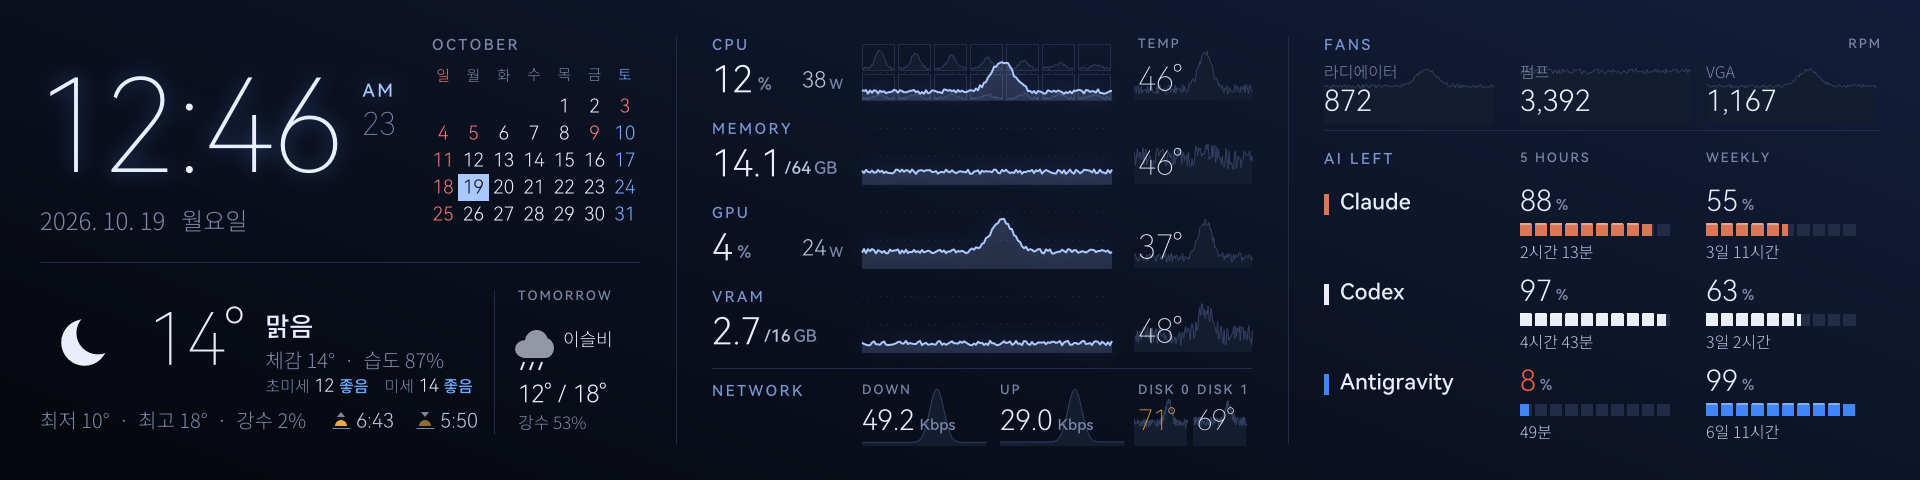
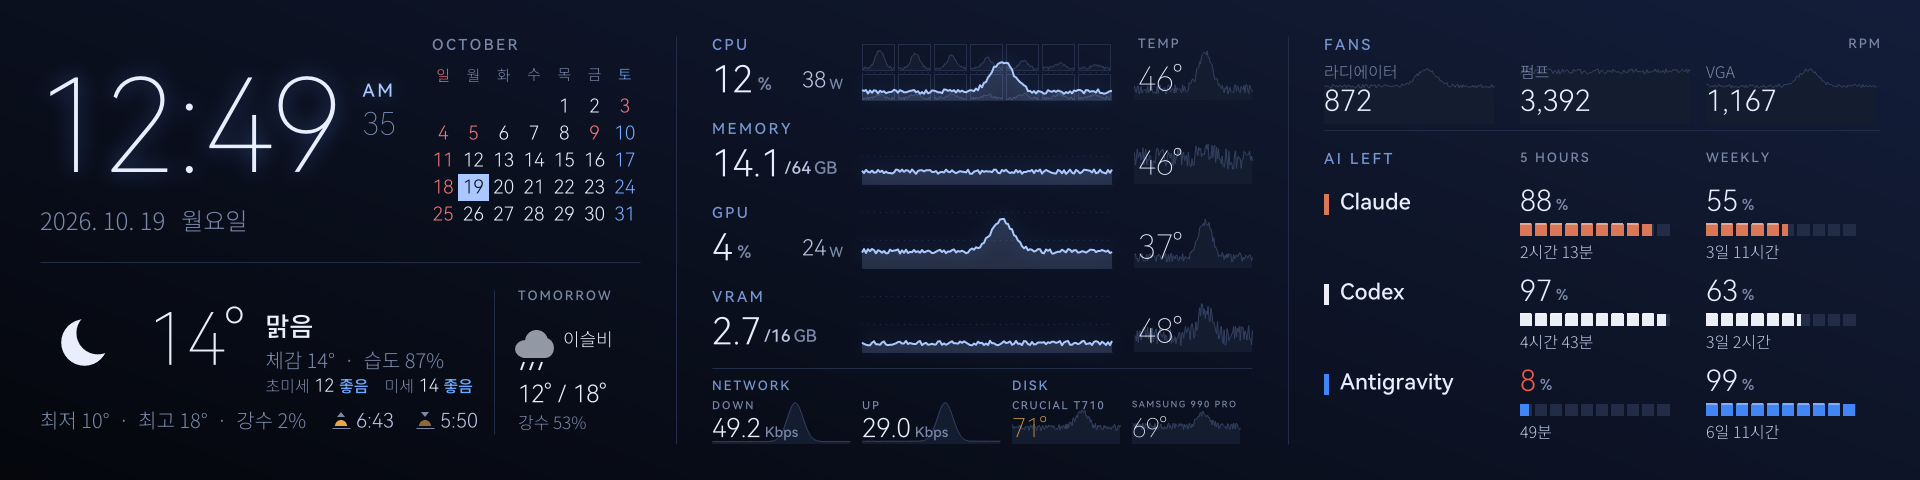
Bottom row: small headings over network speeds and disk temperatures
"Network" and "Disk" become small headings with the values under them, which frees room for
the disks to be named by their model ("Crucial T710", "Samsung 990 PRO", from the drive's
product id; `[disks] labels` overrides). Screenshots updated.

Changed region(s): [[0.375, 0.7812, 0.6562, 0.9375], [0.125, 0.1562, 0.2188, 0.375]]

diff --git a/rust/src/sensors/disks.rs b/rust/src/sensors/disks.rs
@@ -3,7 +3,8 @@
 //!
 //! Which drives: the ones holding the drive letters in the settings (`[disks] show`), or else
 //! the first two internal drives (USB and virtual disks are skipped). Each is labeled with its
-//! Windows disk number ("Disk 0"), as in Disk Management.
+//! model, shortened ("Samsung SSD 990 PRO 1TB" -> "Samsung 990 PRO", "CT2000T710SSD8" -> "Crucial T710"), or the
+//! name in `[disks] labels`, or "Disk N" (the Windows disk number) when the model is unknown.
 
 use std::collections::BTreeMap;
 
@@ -23,7 +24,7 @@ use crate::config;
 
 pub const MAX: usize = 2;
 
-/// A drive to watch: its physical disk number and label ("Disk 0").
+/// A drive to watch: its physical disk number and label ("990 PRO").
 pub struct Disk {
     number: u32,
     pub label: String,
@@ -78,6 +79,74 @@ fn internal(number: u32) -> bool {
     d.is_some_and(|d| d.BusType != BusTypeUsb && d.BusType != BusTypeFileBackedVirtual && !d.RemovableMedia)
 }
 
+/// The drive's product id ("Samsung SSD 990 PRO 1TB").
+fn model(number: u32) -> Option<String> {
+    let h = open(&format!(r"\\.\PhysicalDrive{number}"))?;
+    let q = STORAGE_PROPERTY_QUERY { PropertyId: StorageDeviceProperty, QueryType: PropertyStandardQuery, ..Default::default() };
+    let mut buf = vec![0u8; 1024]; // the descriptor plus its strings
+    let mut got = 0u32;
+    let ok = unsafe {
+        DeviceIoControl(
+            h,
+            IOCTL_STORAGE_QUERY_PROPERTY,
+            Some(&q as *const _ as *const _),
+            std::mem::size_of::<STORAGE_PROPERTY_QUERY>() as u32,
+            Some(buf.as_mut_ptr().cast()),
+            buf.len() as u32,
+            Some(&mut got),
+            None,
+        )
+        .is_ok()
+    };
+    unsafe {
+        let _ = CloseHandle(h);
+    }
+    if !ok || (got as usize) < std::mem::size_of::<STORAGE_DEVICE_DESCRIPTOR>() {
+        return None;
+    }
+    let d: STORAGE_DEVICE_DESCRIPTOR = unsafe { std::ptr::read_unaligned(buf.as_ptr().cast()) };
+    let at = d.ProductIdOffset as usize;
+    if at == 0 || at >= got as usize {
+        return None;
+    }
+    let end = buf[at..got as usize].iter().position(|&b| b == 0).map_or(got as usize, |n| at + n);
+    Some(String::from_utf8_lossy(&buf[at..end]).trim().to_string())
+}
+
+/// A readable name from a product id: vendor and model, without "SSD", the capacity or a
+/// part-number wrapper ("Samsung SSD 990 PRO 1TB" -> "Samsung 990 PRO", "CT2000T710SSD8" ->
+/// "Crucial T710").
+fn short_model(id: &str) -> String {
+    let capacity = |t: &str| {
+        let l = t.to_ascii_lowercase();
+        let digits = l.trim_end_matches("gb").trim_end_matches("tb").trim_end_matches('g').trim_end_matches('t');
+        digits != l && !digits.is_empty() && digits.chars().all(|c| c.is_ascii_digit() || c == '.')
+    };
+    let words: Vec<String> = id
+        .split_whitespace()
+        .filter(|w| !w.eq_ignore_ascii_case("ssd") && !capacity(w))
+        .map(|w| {
+            // Crucial part numbers: CT2000T710SSD8 -> Crucial T710
+            let up = w.to_ascii_uppercase();
+            match (up.strip_prefix("CT"), up.find("SSD")) {
+                (Some(rest), Some(i)) if i > 2 => format!("Crucial {}", rest[..i - 2].trim_start_matches(|c: char| c.is_ascii_digit())),
+                _ => w.to_string(),
+            }
+        })
+        .collect();
+    words.join(" ")
+}
+
+#[cfg(test)]
+mod tests {
+    #[test]
+    fn short_models() {
+        assert_eq!(super::short_model("Samsung SSD 990 PRO 1TB"), "Samsung 990 PRO");
+        assert_eq!(super::short_model("CT2000T710SSD8"), "Crucial T710");
+        assert_eq!(super::short_model("WD_BLACK SN850X 2000GB"), "WD_BLACK SN850X");
+    }
+}
+
 /// The drives to show (see the module comment).
 pub fn pick() -> Vec<Disk> {
     let map = drives();
@@ -85,7 +154,9 @@ pub fn pick() -> Vec<Disk> {
     let mut out: Vec<Disk> = Vec::new();
     let mut add = |number: u32| {
         if out.len() < MAX && !out.iter().any(|d| d.number == number) {
-            out.push(Disk { number, label: format!("Disk {number}") });
+            let custom = config::get().disks.labels.get(out.len()).filter(|l| !l.trim().is_empty()).cloned();
+            let label = custom.or_else(|| model(number).map(|m| short_model(&m))).filter(|l| !l.is_empty()).unwrap_or_else(|| format!("Disk {number}"));
+            out.push(Disk { number, label });
         }
     };
     if wanted.is_empty() {

diff --git a/rust/src/ui/hardware.rs b/rust/src/ui/hardware.rs
@@ -155,37 +155,41 @@ pub(super) fn draw_hardware(cv: &mut Canvas, st: &State, x: f32, right: f32) {
         }
     }
 
+    // bottom row: small headings, then network speeds and disk temperatures under them
     let y = TOP + 4.0 * 84.0 + 6.0;
     cv.line(&[(x, y - 10.0), (right, y - 10.0)], 1.0, RULE);
-    cv.caps(x, y + 4.0, "Network", 16.0, None, 2.5, false);
-    // with disk temperatures in the temperature column, the network speeds sit closer together
-    let disks = !hw.disks.is_empty();
-    let (step, graph_w, size) = if disks { (138.0, 124.0, 30.0) } else { (200.0, 180.0, 32.0) };
+    let (top, h) = (y + 18.0, 48.0); // graphs under the headings
+    let (f_val, f_unit) = (num(28.0, Face::Num), num(15.0, Face::NumSemi));
+    cv.caps(x, y, "Network", 14.0, None, 2.0, false);
     for (j, (label, key, rate)) in [("Down", "net_down", hw.net_down), ("Up", "net_up", hw.net_up)].into_iter().enumerate() {
-        let nx = gx + j as f32 * step;
-        bg_graph(cv, nx, y + 2.0, graph_w, 66.0, &st.hist[key], 125_000.0, None); // floor 1 Mbps
-        cv.caps(nx, y + 4.0, label, 14.0, Some(MUTED), 2.0, false);
-        let f = num(size, Face::Num);
+        let nx = x + j as f32 * 150.0;
+        bg_graph(cv, nx, top, 138.0, h, &st.hist[key], 125_000.0, None); // floor 1 Mbps
+        cv.caps(nx, y + 21.0, label, 12.0, Some(MUTED), 2.0, false);
         match rate {
-            None => cv.text(nx, y + 26.0, "--", f, FAINT),
+            None => cv.text(nx, y + 35.0, "--", f_val, FAINT),
             Some(rate) => {
                 let (val, unit) = fmt_rate(rate);
-                cv.text(nx, y + 26.0, &val, f, INK);
-                cv.text(nx + cv.text_len(&val, f) + 5.0, y + 38.0, unit, num(16.0, Face::NumSemi), MUTED);
+                cv.text(nx, y + 35.0, &val, f_val, INK);
+                cv.text(nx + cv.text_len(&val, f_val) + 4.0, y + 46.0, unit, f_unit, MUTED);
             }
         }
     }
-    // disk temperatures, in line with the temperature column above
-    let tx = gx + GRAPH_W + 26.0;
-    let cw = (right - tx + 4.0) / crate::sensors::disks::MAX as f32;
+    if hw.disks.is_empty() {
+        return;
+    }
+    let dx0 = x + 300.0;
+    let cw = (right - dx0) / crate::sensors::disks::MAX as f32;
+    cv.caps(dx0, y, "Disk", 14.0, None, 2.0, false);
     for (i, (label, temp)) in hw.disks.iter().enumerate() {
-        let dx = tx + i as f32 * cw;
-        bg_graph(cv, dx - 4.0, y + 2.0, cw - 6.0, 66.0, &st.hist[["disk0", "disk1"][i.min(1)]], 0.0, Some(10.0));
-        cv.caps(dx, y + 4.0, label, 14.0, Some(MUTED), 2.0, false);
-        let f = num(30.0, Face::NumLight);
+        let dx = dx0 + i as f32 * cw;
+        bg_graph(cv, dx, top, cw - 12.0, h, &st.hist[["disk0", "disk1"][i.min(1)]], 0.0, Some(10.0));
+        // model names vary in length: shrink the name to its cell
+        let size = [12.0, 11.0, 10.0, 9.0].into_iter().find(|&z| cv.caps_len(label, z, 1.5) <= cw - 14.0).unwrap_or(9.0);
+        cv.caps(dx, y + 21.0, label, size, Some(MUTED), 1.5, false);
+        let f = num(28.0, Face::NumLight);
         match temp {
-            None => cv.text(dx, y + 26.0, "--°", f, FAINT),
-            Some(t) => cv.text(dx, y + 26.0, &format!("{:.0}°", deg(*t)), f, temp_color(*t)),
+            None => cv.text(dx, y + 35.0, "--°", f, FAINT),
+            Some(t) => cv.text(dx, y + 35.0, &format!("{:.0}°", deg(*t)), f, temp_color(*t)),
         }
     }
 }

diff --git a/rust/src/config.rs b/rust/src/config.rs
@@ -65,6 +65,8 @@ pub struct Ai {
 pub struct Disks {
     /// drive letters of up to two drives, e.g. ["C", "D"]; empty = the first two internal drives
     pub show: Vec<String>,
+    /// names to show for them; empty = the drive model, shortened
+    pub labels: Vec<String>,
 }
 
 #[derive(Clone, Debug, Deserialize, Serialize)]
@@ -221,6 +223,8 @@ labels = [{labels}]
 # SSD temperatures next to the network speeds: drive letters of up to two drives,
 # e.g. ["C", "D"]; empty = the first two internal drives
 show = [{disks}]
+# Names for them, e.g. ["System", "Games"]; empty = the drive model ("990 PRO")
+labels = [{disk_labels}]
 "#,
         lang = c.language,
         clock = c.clock,
@@ -237,6 +241,7 @@ show = [{disks}]
         agy = c.ai.antigravity,
         labels = c.fans.labels.iter().map(|l| format!("{l:?}")).collect::<Vec<_>>().join(", "),
         disks = c.disks.show.iter().map(|l| format!("{l:?}")).collect::<Vec<_>>().join(", "),
+        disk_labels = c.disks.labels.iter().map(|l| format!("{l:?}")).collect::<Vec<_>>().join(", "),
     )
 }
 

diff --git a/rust/src/ui/canvas.rs b/rust/src/ui/canvas.rs
@@ -322,6 +322,17 @@ impl Canvas {
     }
 
     /// Letter-spaced uppercase label. right = anchor at the right end of the run.
+    /// Width of `caps(text, size, spacing)` without drawing it.
+    pub(super) fn caps_len(&self, text: &str, size: f32, spacing: f32) -> f32 {
+        let f = num(size, Face::NumSemi);
+        let (mut width, mut n) = (0.0, 0usize);
+        f.each(&text.to_uppercase(), |ch, sf| {
+            width += sf.h_advance(sf.glyph_id(ch));
+            n += 1;
+        });
+        width + spacing * n.saturating_sub(1) as f32
+    }
+
     pub(super) fn caps(&mut self, x: f32, y: f32, text: &str, size: f32, fill: Option<Rgb>, spacing: f32, right: bool) -> f32 {
         let f = num(size, Face::NumSemi);
         let text = text.to_uppercase();

diff --git a/rust/src/diag.rs b/rust/src/diag.rs
@@ -38,7 +38,7 @@ pub fn fake_state() -> state::State {
         gpu: Some(4.0), gpu_temp: Some(37.0), gpu_power: Some(24.0), vram_used: Some(2.7), vram_total: Some(15.9), vram_temp: Some(48.0),
         fan_radiator: Some(872.0), fan_pump: Some(3392.0), fan_gpu: Some(1167.0),
         net_down: Some(49_200.0 / 8.0), net_up: Some(29_000.0 / 8.0),
-        disks: vec![("Disk 0".into(), Some(71.0)), ("Disk 1".into(), Some(69.0))],
+        disks: vec![("Crucial T710".into(), Some(71.0)), ("Samsung 990 PRO".into(), Some(69.0))],
     };
     let mut seed = 12345u32;
     let mut rnd = move || {

diff --git a/README.md b/README.md
@@ -96,6 +96,7 @@ labels = []              # e.g. ["Radiator", "Pump", "GPU"]
 
 [disks]
 show = []                # disk temperatures: up to two drive letters, e.g. ["C", "D"]; empty = first two internal drives
+labels = []              # names for them; empty = the drive model ("Samsung 990 PRO")
 ```
 
 ## How the AI usage is read
